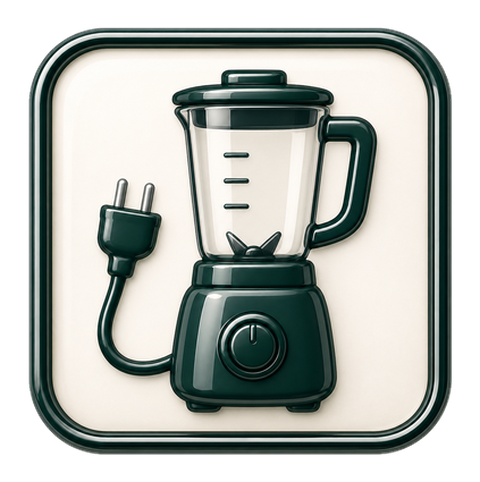
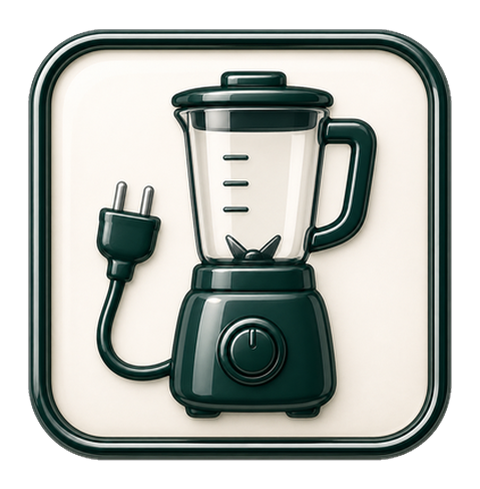
tweak(hub): forma dos tiles padronizada (aspecto 0.98, stretch ≤3.8% imperceptível) e render ampliado (70→74% da célula); pets-hub flagado pra regeneração no lote 2

diff --git a/screens/Education/KnowledgeHubScreen.js b/screens/Education/KnowledgeHubScreen.js
@@ -509,8 +509,8 @@ const s = StyleSheet.create({
         justifyContent: 'center',
     },
     ceramicImage: {
-        width: '96%',
-        height: '70%',
+        width: '100%',
+        height: '74%',
         marginBottom: 2,
     },
 });
